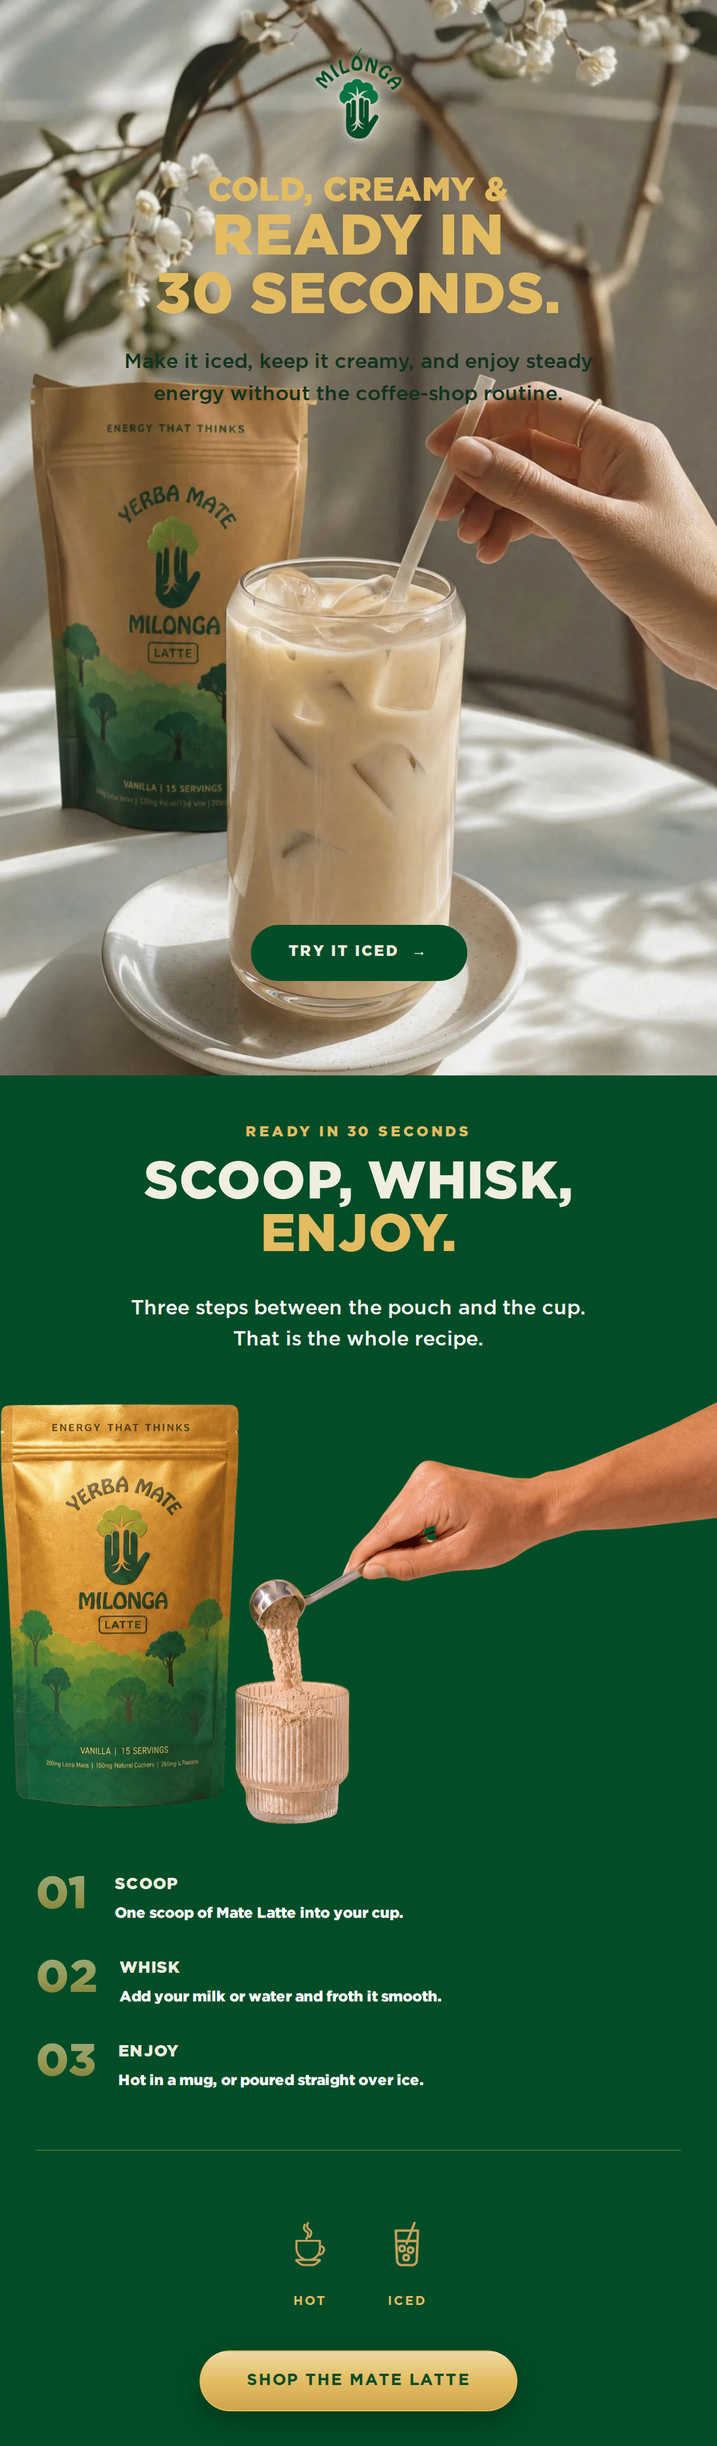
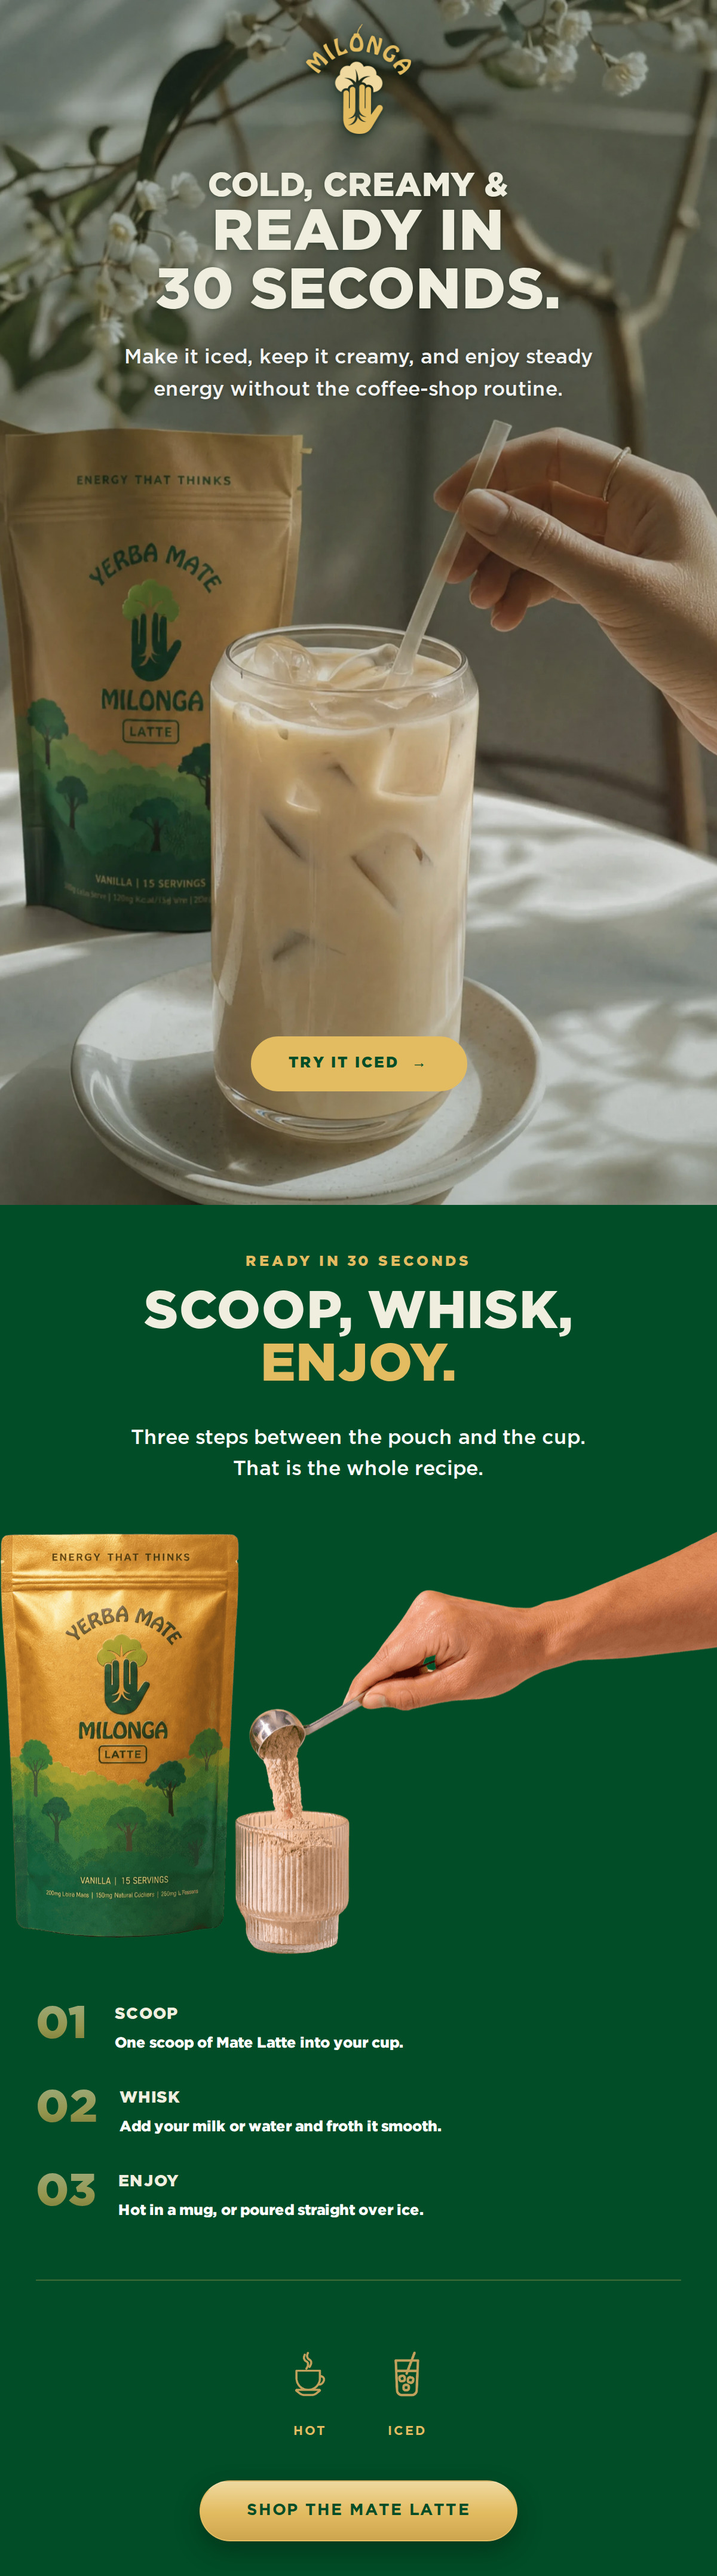
email: how-to-make-it, beige title on a darkened head
The whole section changes hands at once, because beige needs a dark ground:
ink light, a scrim weighted to the top at 0.55, the title in beige and the
wordmark in gold at 92. Measured on the band the title occupies the
photograph averages rgb(131,123,105) and spans 35 to 247; at 0.55 that lands
near 60, where beige reads about 9:1 against the 1.80:1 gold was managing
flat. The gradient is out by 78% of the frame, so the glass, the pouch and
the table keep their own light.

THE FRAME IS NOW TALLER THAN THE FILE, and that is what keeps the paragraph
off the bag. The source is 1333 x 2000, its own ratio 1.5; at 1.68 the frame
binds on HEIGHT instead, so the picture scales up from 0.450 to 0.504 and
every subject in it moves down. The pouch's top goes 315 -> 353 design units
while the copy block ends at 340. The cost is 36 units of width off each
side, which this composition can give — moving the type instead would have
meant shrinking the title that was just made big.

Both split images re-cut on the colour edge at the new section height.

Claude-Session: https://claude.ai/code/session_01NhEtXPnfeCJfN73SqBkUZ5

diff --git a/email-ds/emails/how-to-make-it.jsx b/email-ds/emails/how-to-make-it.jsx
@@ -19,26 +19,27 @@ function HowToMakeIt() {
     // button below that — the whole reading in the top third, with the glass
     // and the pouch taking the rest of the frame untouched.
     //
-    // NOTHING IS DONE TO THE PICTURE. No scrim, no cream lift — the
-    // photograph goes in exactly as shot.
+    // THE PICTURE IS DARKENED AT THE HEAD, and the ink flips with it. Beige
+    // type needs a dark ground, so the whole section changes hands at once:
+    // ink 'light', a scrim weighted to the top, and the wordmark in gold.
+    // Measured on the band the title occupies, the photograph averages
+    // rgb(131,123,105) and spans 35 to 247 — at 0.55 that band lands near 60,
+    // where beige reads about 9:1. The gradient is out by 78% of the frame,
+    // so the glass, the pouch and the table keep their own light.
     //
-    // That still leaves the problem the lift was solving. Measured across the
-    // band the wordmark occupies, this picture runs a mean of 120 with a
-    // minimum of 39: pale wall and bright blossom, crossed by dark twigs, and
-    // forest green holds on the wall while it disappears on the twigs. So the
-    // type carries its own ground instead — a CREAM halo, sitting behind the
-    // letters and nowhere else. A dark halo behind dark letters only thickens
-    // them into a smudge; a pale one separates them from whatever is under
-    // them, and costs the photograph nothing at all.
+    // THE FRAME IS TALLER THAN THE FILE, and that is what keeps the paragraph
+    // off the bag. The source is 1333 x 2000, its own ratio 1.5; at 1.68 the
+    // frame binds on HEIGHT instead, so the picture scales up from 0.450 to
+    // 0.504 and every subject in it moves down. The pouch's top goes from 315
+    // design units to 353, and the copy block — 92 of wordmark, 126 of title,
+    // 50 of paragraph and the gaps between them — ends at 340. The cost is 36
+    // units of width off each side, which this composition has to give.
     h(M.T9Story, {
       src: '../public/product/latte-iced-table.jpg',
       alt: 'Cold, creamy and ready in 30 seconds. A tall glass of iced Milonga Mate Latte on a table in morning light, a hand stirring it with a straw, the vanilla Mate Latte pouch behind it and a branch of white blossom above. Try it iced.',
       logo: true,
-      logoTone: 'green',
-      // 76, the size the full-image opener uses. A wordmark on a photograph
-      // is the brand signing the email; below about 52 it reads as a
-      // watermark instead.
-      logoHeight: 76,
+      logoTone: 'gold',
+      logoHeight: 92,
       // No logoTop here. On a CENTRED stack the wordmark renders inside the
       // stack, so `top` is what moves it — logoTop only applies when the copy
       // is left-aligned and the mark comes out of the column to centre itself
@@ -50,8 +51,8 @@ function HowToMakeIt() {
       // and strands "SECONDS." — the explicit break gives two rows of 304 and
       // 418 units instead.
       line2: 'ready in\n30 seconds.',
-      line1Color: '#E3BC62',
-      line2Color: '#E3BC62',
+      line1Color: '#F0EFDF',
+      line2Color: '#F0EFDF',
       paras: ['Make it iced, keep it creamy, and enjoy steady energy without the coffee-shop routine.'],
       cta: { label: 'Try it iced', href: '#shop', arrow: true },
       // Pinned low, the way the full-image opener is meant to work: the mark
@@ -60,18 +61,21 @@ function HowToMakeIt() {
       // between them. A single clump in the middle wastes the frame.
       at: '86%',
       ctaAlign: 'center',
-      ratio: 1.5,
+      ratio: 1.68,
       size: 28,
       size2: 48,
       titleLead: 1.02,
-      top: 40,
+      top: 20,
       padLeft: 26,
       padRight: 26,
       measure: 430,
-      ink: 'dark',
-      scrim: 0,
-      // Flat letters. The cream halo goes.
-      halo: 'none',
+      ink: 'light',
+      scrim: 0.55,
+      scrimAt: 'top',
+      // One quiet shadow, not the dense halo. The scrim is already carrying
+      // the separation; a four-layer stack behind 48px letters reads as an
+      // effect rather than as clarity.
+      halo: 'soft',
     }),
 
     // ── 2 · THE PROCESS ───────────────────────────────────────────────────
